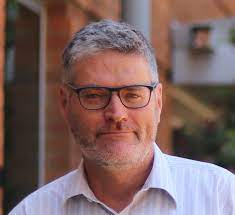
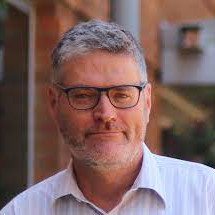
Fix and rescale photos.
The site template requires photos to be square in order to display speakers
correctly. While we are here also rescale the photos to improve loading times.

diff --git a/templates/2023/speakers.html b/templates/2023/speakers.html
@@ -79,7 +79,7 @@
             <h4>Phil Wadler</h4>
             <p><a href="https://homepages.inf.ed.ac.uk/wadler/">University of Edinburgh</a>
           </header>
-          <p>Known for his <a href"=https://www.youtube.com/watch?v=GnpcMCW0RUA">standup comedy</a> about computability theory.</p>
+          <p>Known for his <a href="https://www.youtube.com/watch?v=GnpcMCW0RUA">standup comedy</a> about computability theory.</p>
         </div>
       </div>
       <div class="feature">
@@ -132,7 +132,7 @@
             <h4>Tobias Wrigstad</h4>
             <p><a href="http://wrigstad.com">Uppsala University</a></p>
           </header>
-          <p>Partly, and unapologetically, responsible for  ``Structure and Interpretation of Computer Programs: JavaScript Edition''.</p>
+          <p>Partly, and unapologetically, responsible for  "Structure and Interpretation of Computer Programs: JavaScript Edition".</p>
         </div>
       </div>
       <div class="feature">
